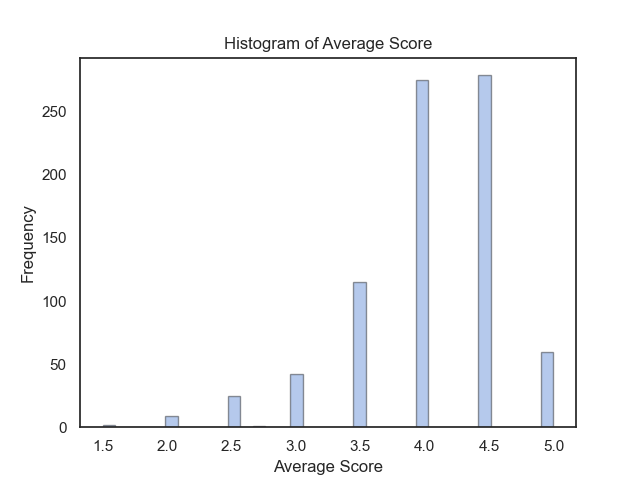
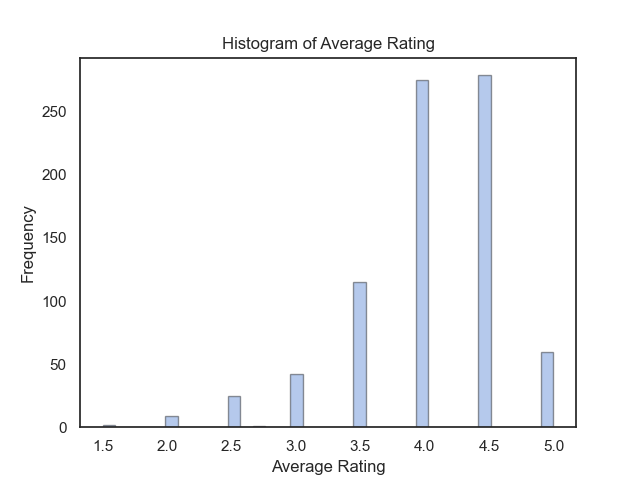
new folder structure

Changed region(s): [[0.3438, 0.0625, 0.6875, 0.125], [0.4375, 0.9375, 0.625, 1.0]]

diff --git a/code/eda_tripadvisor.py b/code/eda_tripadvisor.py
@@ -156,20 +156,21 @@ y_3 = np.mean(hotel_ranking_dist['average'] / hotel_ranking_dist['num_reviews'])
 y_4 = np.mean(hotel_ranking_dist['poor'] / hotel_ranking_dist['num_reviews'])
 y_5 = np.mean(hotel_ranking_dist['terrible'] / hotel_ranking_dist['num_reviews'])
 
-x = ['terrible', 'poor', 'average', 'very good', 'excellent']
+x = ['1', '2', '3', '4', '5']
 y = [y_5, y_4, y_3, y_2, y_1]
 
-sns.set_theme(style="whitegrid", palette="PuBuGn_r")
+sns.set_theme(style="whitegrid", palette="BuPu_r")
 sns.barplot(x,y)
 plt.savefig(figure_dir + 'barplot_cat_num_rev.png')
 
 
 
 
+
 # BOXPLOT
 ax = sns.boxplot(x="average_rating", y="num_reviews", data=hotel_ranking_dist)
-plt.title('Number of Reviews vs Average Score')
-plt.xlabel('Average Score')
+plt.title('Number of Reviews vs Average Rating')
+plt.xlabel('Average Rating')
 plt.ylabel('Number of Reviews')
 plt.savefig(figure_dir + 'boxplot.png')
 
@@ -184,8 +185,8 @@ sns.regplot(x='average_rating', y="num_reviews", data=hotel_ranking_dist,
 
 
 
-plt.title('Total Number of Reviews vs Average Score')
-plt.xlabel('Average Score')
+plt.title('Total Number of Reviews vs Average Rating')
+plt.xlabel('Average Rating')
 plt.ylabel('Total Number of Reviews')
 plt.savefig(figure_dir + 'number_of_reviews_v_avScore.png')
 
@@ -201,8 +202,8 @@ sns.distplot(hotel_ranking_dist['average_rating'], hist=True, kde=False,
              hist_kws={'edgecolor':'black'})
 
 # Lables
-plt.title('Histogram of Average Score')
-plt.xlabel('Average Score')
+plt.title('Histogram of Average Rating')
+plt.xlabel('Average Rating')
 plt.ylabel('Frequency')
 plt.savefig(figure_dir + 'Histogram_of_AvScore.png')
 
@@ -215,7 +216,7 @@ plt.savefig(figure_dir + 'Histogram_of_AvScore.png')
 ##############################################################################
 
 pairplot_df = df_hotel_reviews[['bad_review_dummy', 'num_reviews','average_rating', 'tripadv_ranking']]
-sns.pairplot(pairplot_df,hue='bad_review_dummy', palette='PuBuGn_r')
+sns.pairplot(pairplot_df,hue='bad_review_dummy', palette='BuPu_r')
 
 plt.savefig(figure_dir + 'pairplot.png')
 

diff --git a/code/final_result_calculation.py b/code/final_result_calculation.py
@@ -28,6 +28,8 @@ hotel_review_df = pd.read_parquet('data/UK_hotel_reviews.parquet')
 
 result_df = pd.read_csv('data/result_data_wo_train.csv')
 
+result_df = result_df.drop_duplicates(subset='review_text', keep="last")
+
 
 # Taste Reviews
 len(result_df[result_df['y_predicted']==1]) / len(result_df['y_predicted'])
